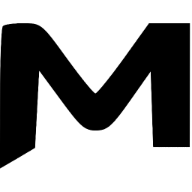
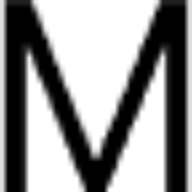
Update images and modify robots.txt and component styles
- Updated favicon and app icons for branding consistency.
- Changed sitemap URL in robots.txt to reflect new domain.
- Added alt text to hero image for accessibility.
- Adjusted styles in OrderConfirmation for branding

diff --git a/src/components/Hero.jsx b/src/components/Hero.jsx
@@ -3,15 +3,14 @@ import Image from "next/image";
 
 export default function Hero ({image, alt}) {
     return (
-      <div className="z-10 mx-auto flex max-w-3xl flex-col items-center px-6 py-32 text-center sm:py-64 lg:py-110 lg:px-0">
-            <Image
-              src={image}
-              alt={alt}
-              fill
-              priority
-              className="object-cover object-center z-[-1]"
-              style={{ zIndex: -1, objectPosition: 'center top' }}
-            />
+       <div className="w-full h-96 lg:h-screen relative overflow-hidden">
+      <Image
+        src={image}
+        alt={alt}
+        fill
+        priority
+        className="object-cover"
+      />
               
            {/* <div className="bg-white/25 backdrop-blur-sm p-8 rounded-lg shadow-md">
             <h1 className="text-4xl font-bold tracking-tight text-black lg:text-6xl">New arrivals are here</h1>

diff --git a/src/components/OrderConfirmation.jsx b/src/components/OrderConfirmation.jsx
@@ -23,7 +23,7 @@ export default function OrderConfirmation() {
     <div className="bg-white">
       <div className="mx-auto max-w-3xl px-4 py-16 sm:px-6 sm:py-24 lg:px-8">
         <div className="max-w-xl">
-          <h1 className="text-base font-medium text-indigo-600">Thank you!</h1>
+          <h1 className="text-base font-medium text-[#303efa]">Thank you!</h1>
           <p className="mt-2 text-4xl font-bold tracking-tight sm:text-5xl">It's on the way!</p>
           <p className="mt-2 text-base text-gray-500">Your order has been confirmed and will be with you soon.</p>
         </div>

diff --git a/src/app/page.jsx b/src/app/page.jsx
@@ -62,6 +62,7 @@ export default function HomePage() {
     <Hero
       title=""
       description=""
+      alt="Maison Metapack hero image"
       image="/images/hero.png"
     />
     <HeroExplainer
